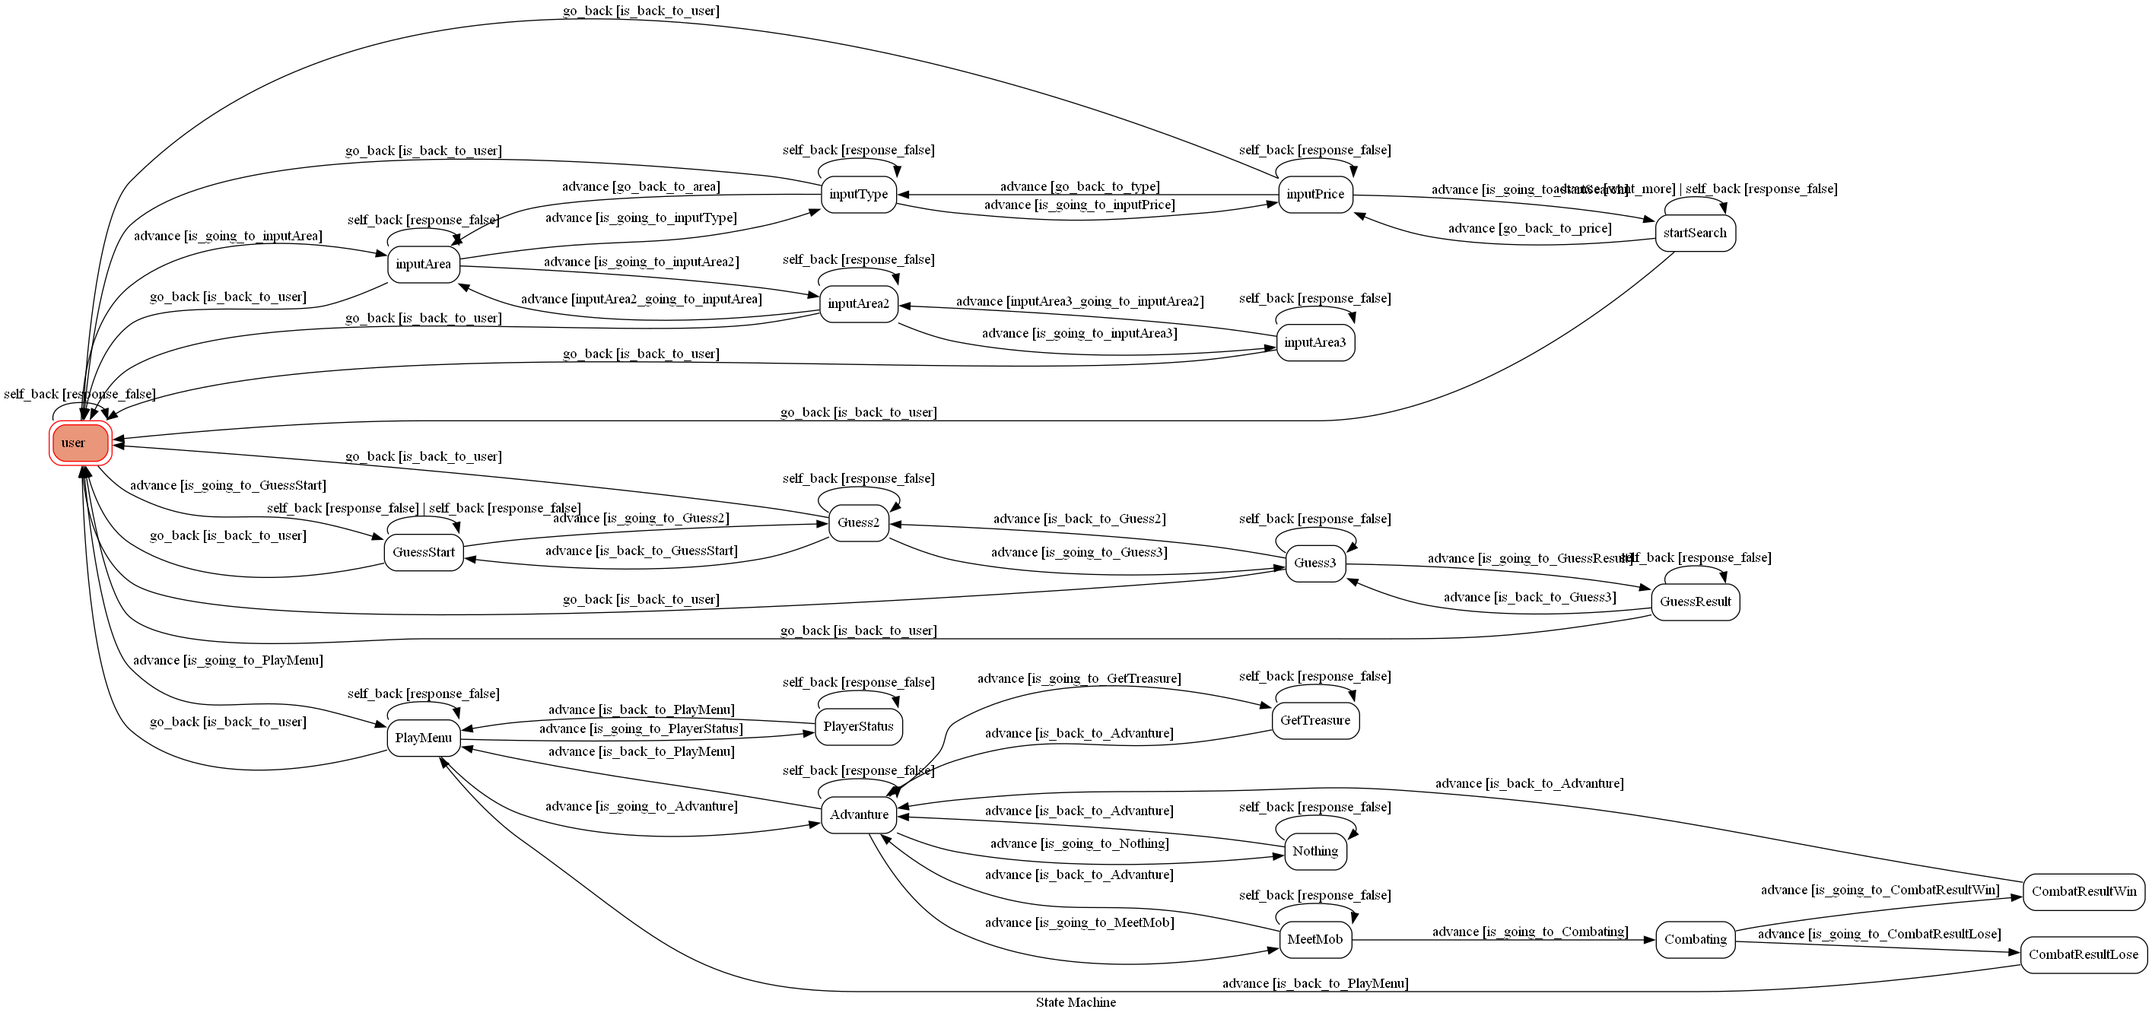
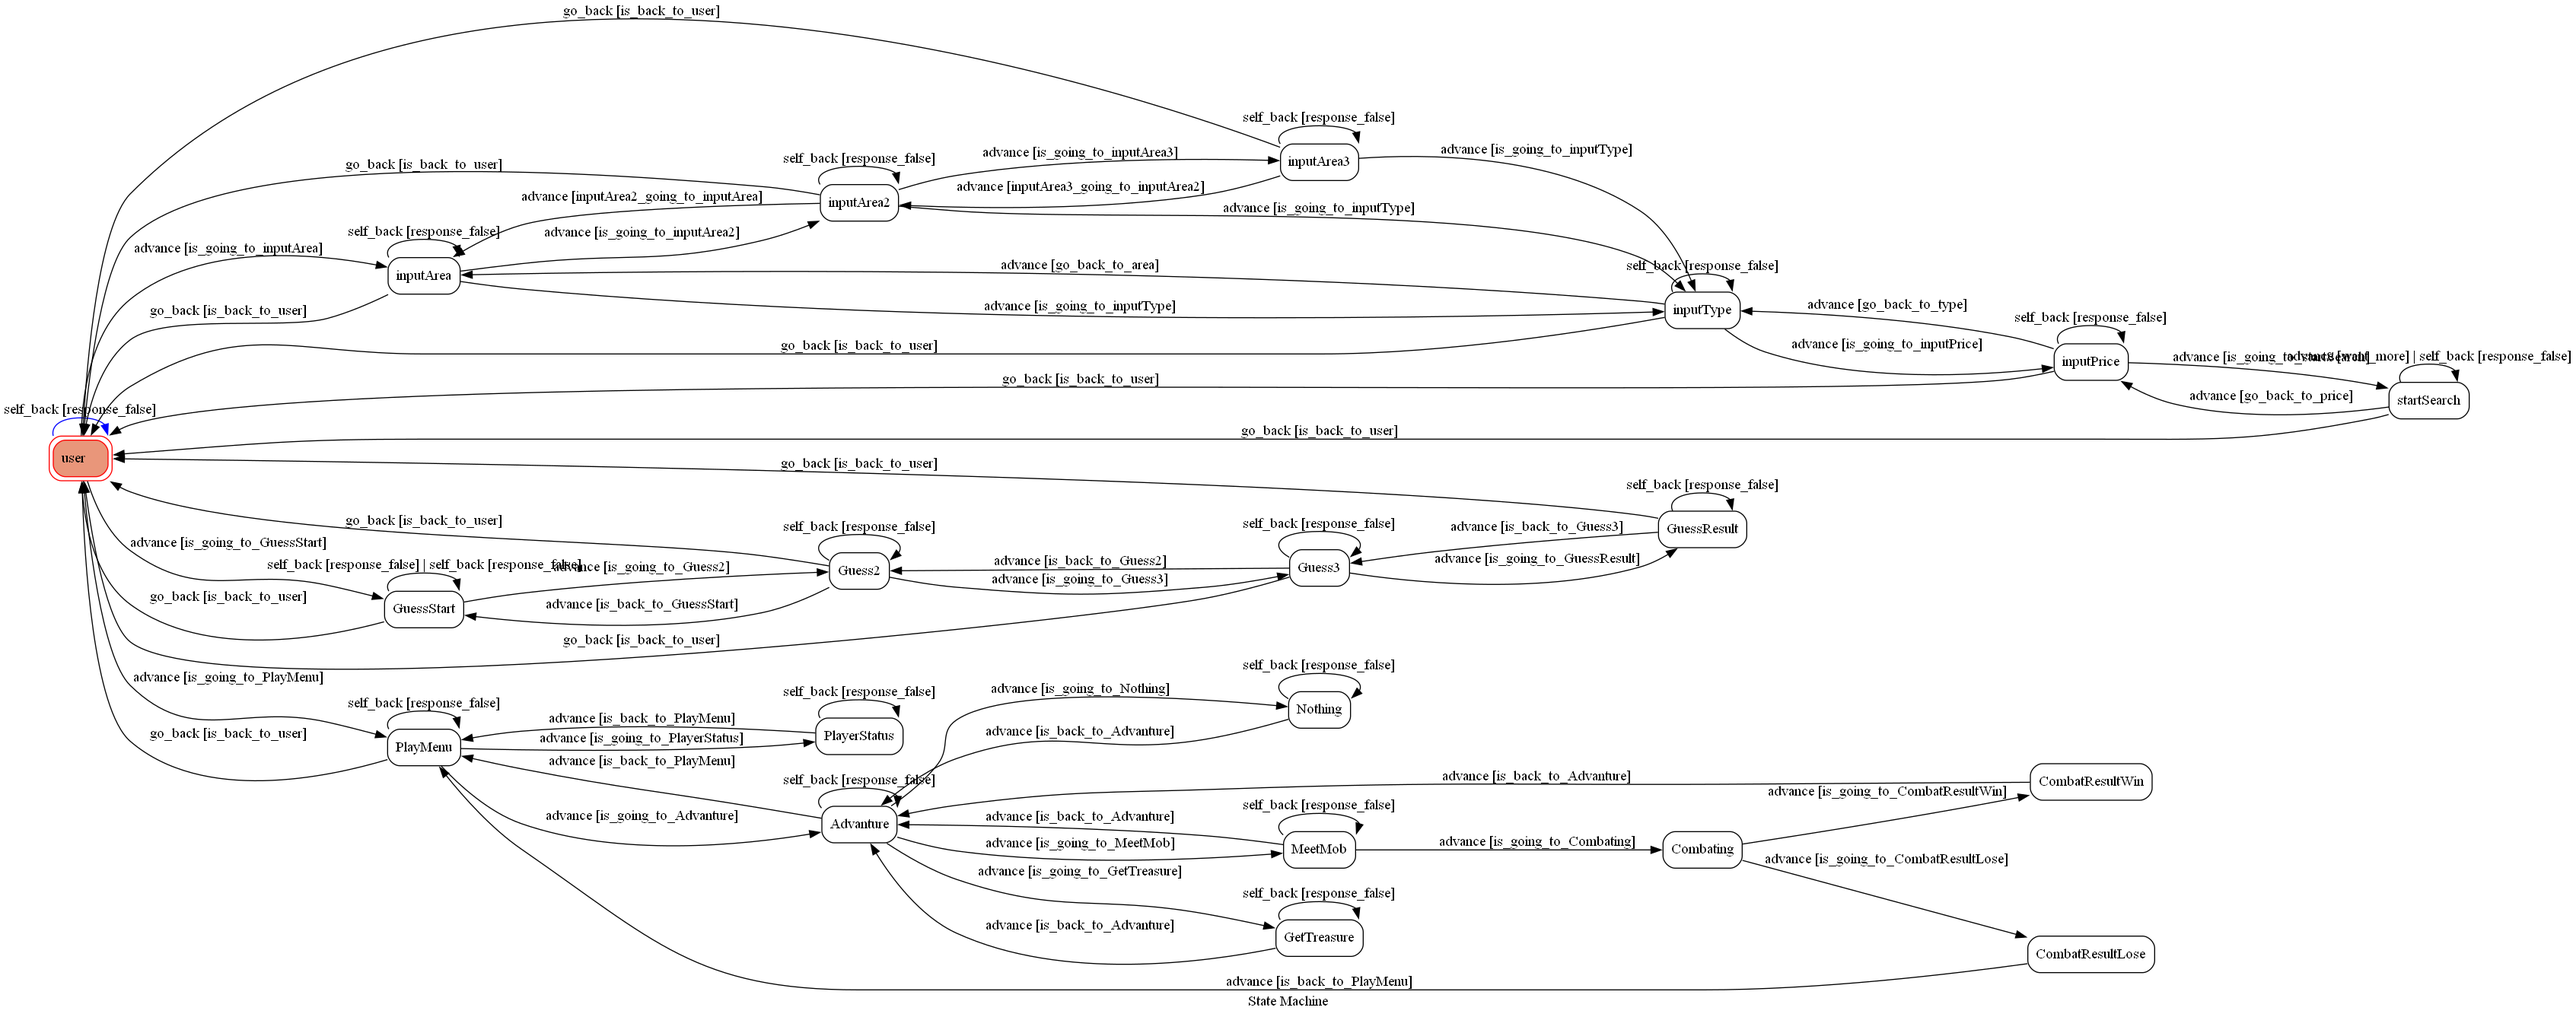
Fixed area bug.

diff --git a/app.py b/app.py
@@ -82,6 +82,8 @@ def webhook_handler():
             transitions=[
                     {"trigger": "advance", "source": "user", "dest": "inputArea",      "conditions": "is_going_to_inputArea"},
                     {"trigger": "advance", "source": "inputArea", "dest": "inputType", "conditions": "is_going_to_inputType"},
+                    {"trigger": "advance", "source": "inputArea2", "dest": "inputType", "conditions": "is_going_to_inputType"},
+                    {"trigger": "advance", "source": "inputArea3", "dest": "inputType", "conditions": "is_going_to_inputType"},
                     
                     {"trigger": "advance", "source": "inputArea", "dest": "inputArea2", "conditions": "is_going_to_inputArea2"},
                     {"trigger": "advance", "source": "inputArea2", "dest": "inputArea", "conditions": "inputArea2_going_to_inputArea"},
